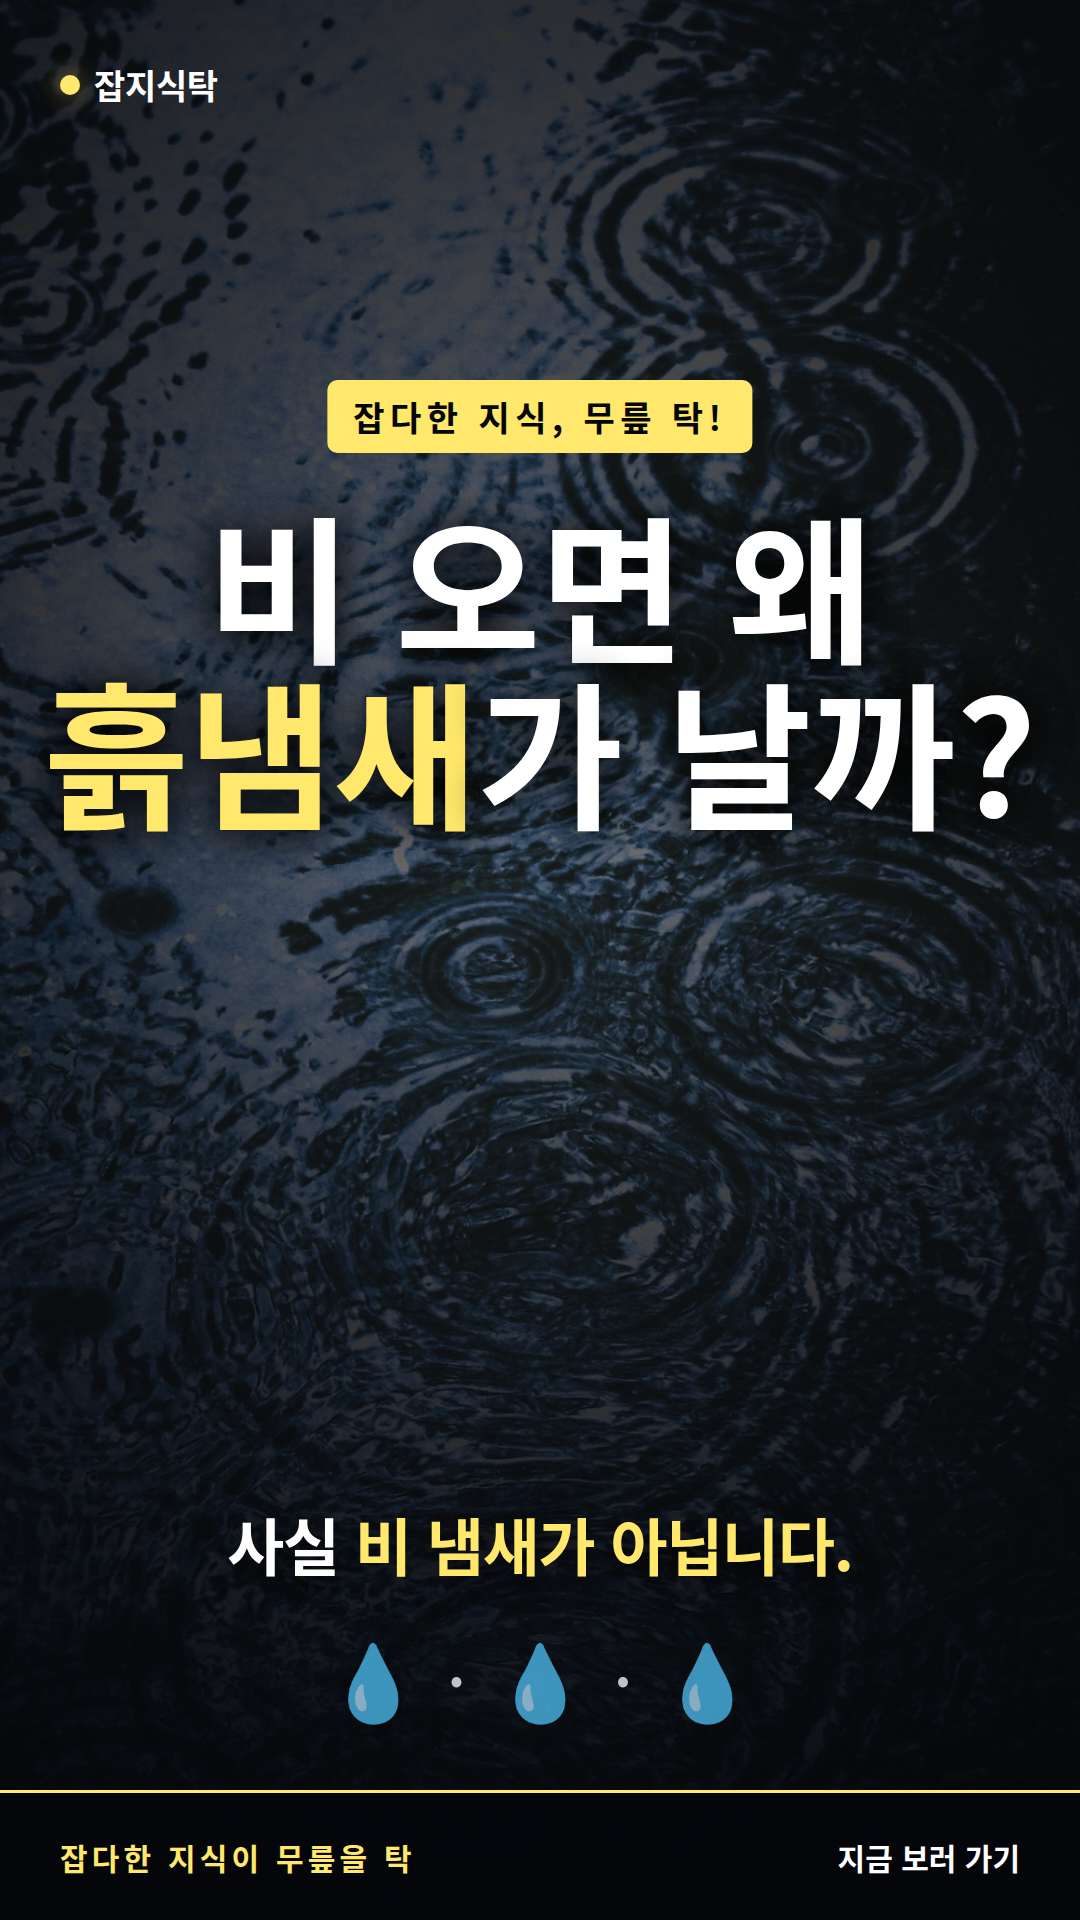
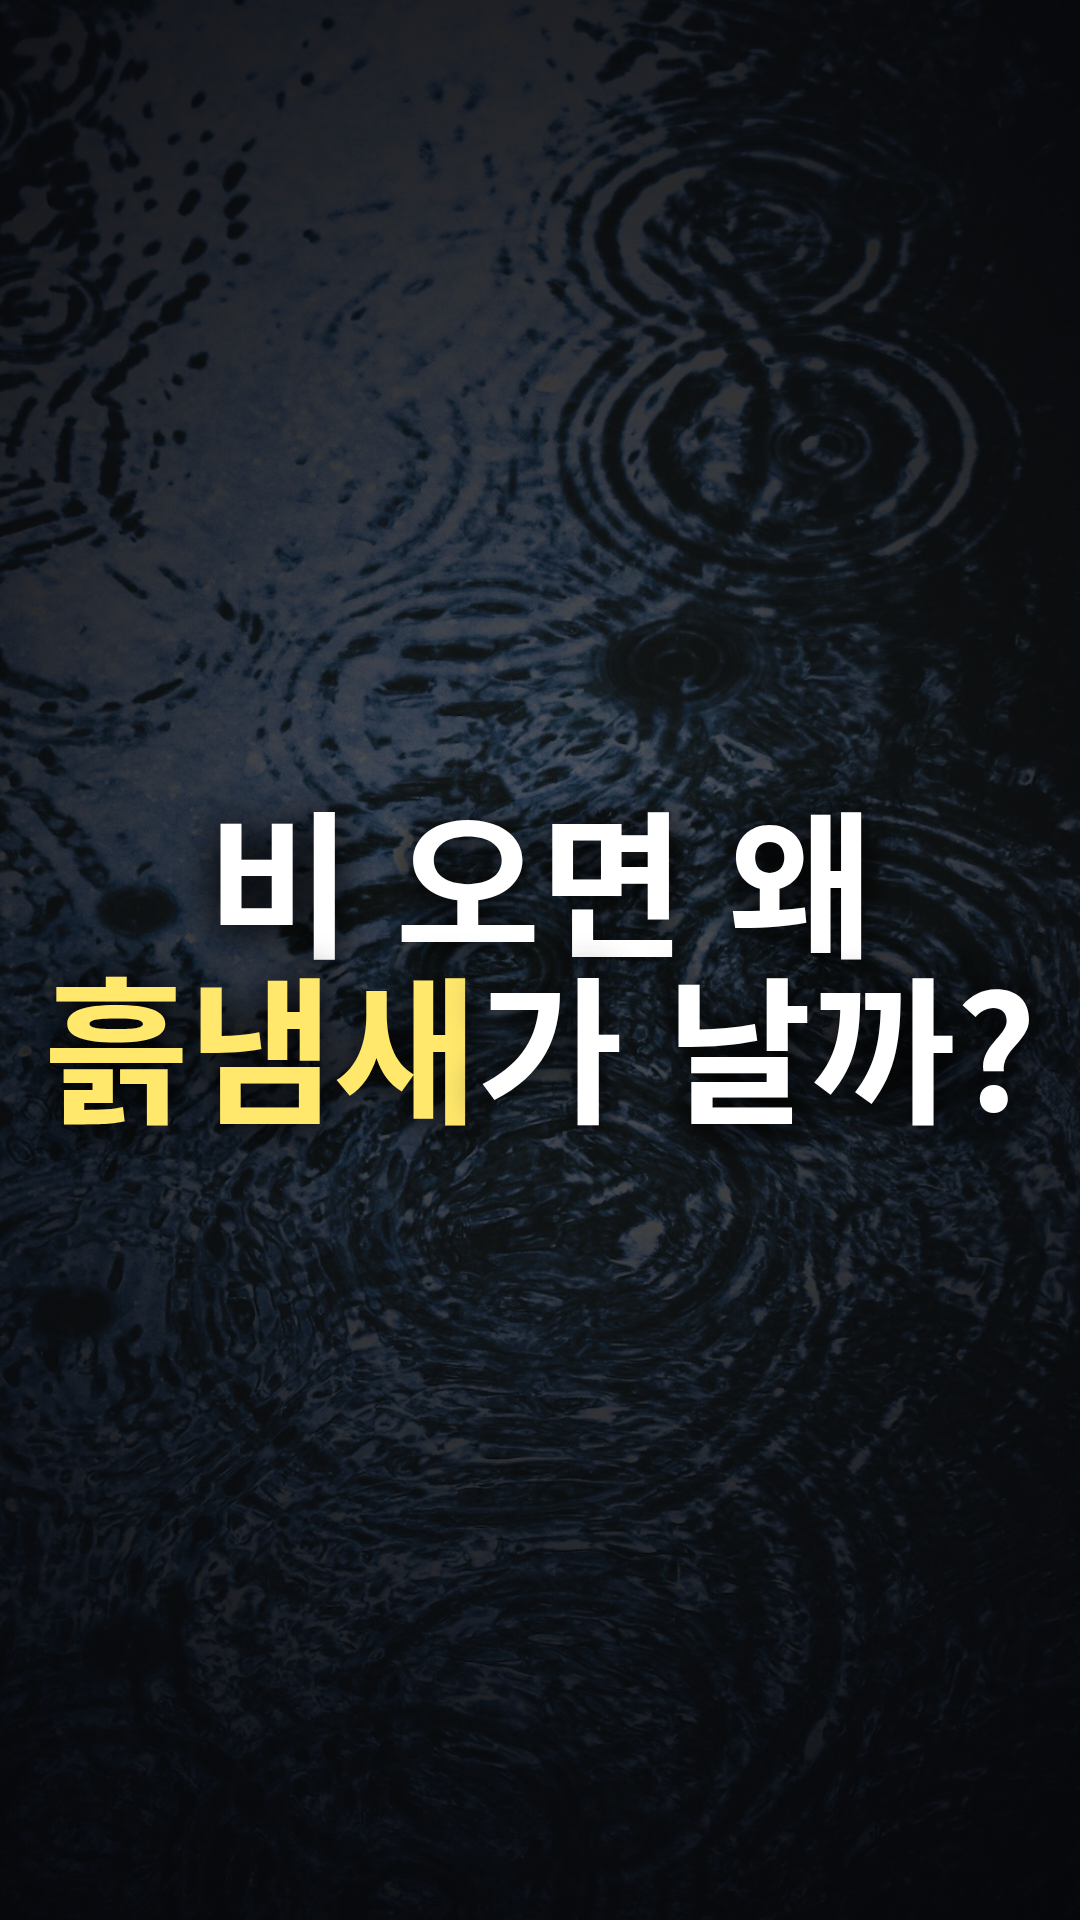
Simplify thumbnail: title only on background
Claude-Session: https://claude.ai/code/session_01EiexasVSPaSjMLVu9gc2gX

diff --git a/videos/rain-smell-shorts/thumbnail.html b/videos/rain-smell-shorts/thumbnail.html
@@ -25,47 +25,14 @@
       .veil {
         position: absolute; inset: 0;
         background:
-          radial-gradient(ellipse at 50% 40%, rgba(5,6,10,0.25) 0%, rgba(5,6,10,0.85) 100%),
-          linear-gradient(180deg, rgba(5,6,10,0.55) 0%, rgba(5,6,10,0.20) 45%, rgba(5,6,10,0.92) 100%);
+          radial-gradient(ellipse at 50% 50%, rgba(5,6,10,0.30) 0%, rgba(5,6,10,0.85) 100%),
+          linear-gradient(180deg, rgba(5,6,10,0.55) 0%, rgba(5,6,10,0.30) 45%, rgba(5,6,10,0.75) 100%);
       }
-
-      /* channel mark top-left */
-      .brand {
-        position: absolute;
-        top: 60px; left: 60px;
-        display: flex; align-items: center; gap: 14px;
-      }
-      .brand .dot {
-        width: 20px; height: 20px; border-radius: 50%;
-        background: #ffe86b;
-        box-shadow: 0 0 24px rgba(255,232,107,0.55);
-      }
-      .brand .chan {
-        font-size: 34px; font-weight: 900;
-        color: #ffffff;
-        letter-spacing: -0.01em;
-      }
-
-      /* top kicker chip */
-      .kicker {
-        position: absolute;
-        top: 380px; left: 50%;
-        transform: translateX(-50%);
-        display: inline-block;
-        font-size: 34px; font-weight: 900;
-        letter-spacing: 0.16em;
-        color: #05060a;
-        background: #ffe86b;
-        padding: 12px 26px;
-        border-radius: 10px;
-        white-space: nowrap;
-      }
-
-      /* main headline */
       .head {
         position: absolute;
         left: 40px; right: 40px;
-        top: 500px;
+        top: 50%;
+        transform: translateY(-50%);
         text-align: center;
         font-weight: 900;
         line-height: 1.05;
@@ -75,96 +42,18 @@
           0 0 40px rgba(0,0,0,0.85),
           0 8px 40px rgba(0,0,0,0.7);
       }
-      .head .l1 { display: block; font-size: 158px; }
-      .head .l2 { display: block; font-size: 158px; }
+      .head .l1 { display: block; font-size: 158px; white-space: nowrap; }
+      .head .l2 { display: block; font-size: 158px; white-space: nowrap; }
       .head .accent { color: #ffe86b; }
-
-      /* stat / hook line */
-      .hook {
-        position: absolute;
-        left: 60px; right: 60px;
-        bottom: 340px;
-        text-align: center;
-        font-size: 62px; font-weight: 800;
-        color: #ffffff;
-        letter-spacing: -0.02em;
-        line-height: 1.15;
-        text-shadow: 0 6px 30px rgba(0,0,0,0.85);
-      }
-      .hook .hl { color: #ffe86b; }
-
-      /* rain-drops accent */
-      .drops {
-        position: absolute;
-        bottom: 190px; left: 0; right: 0;
-        text-align: center;
-        font-size: 74px;
-        opacity: 0.75;
-      }
-
-      /* bottom footer bar */
-      .footer {
-        position: absolute;
-        left: 0; right: 0; bottom: 0;
-        height: 130px;
-        background: rgba(5,6,10,0.85);
-        display: flex; align-items: center; justify-content: space-between;
-        padding: 0 60px;
-        border-top: 3px solid #ffe86b;
-      }
-      .footer .tag {
-        font-size: 30px; font-weight: 800;
-        color: #ffe86b;
-        letter-spacing: 0.14em;
-      }
-      .footer .cta {
-        font-size: 30px; font-weight: 800;
-        color: #ffffff;
-      }
-
-      /* corner decoration */
-      .corner-tl, .corner-br {
-        position: absolute;
-        width: 90px; height: 90px;
-        border: 6px solid #ffe86b;
-      }
-      .corner-tl {
-        top: 40px; right: 40px;
-        border-right: none; border-bottom: none;
-      }
-      .corner-br {
-        bottom: 180px; left: 40px;
-        border-left: none; border-top: none;
-        opacity: 0;
-      }
     </style>
   </head>
   <body>
     <div class="stage">
       <div class="bg"></div>
       <div class="veil"></div>
-
-      <div class="brand">
-        <span class="dot"></span>
-        <span class="chan">잡지식탁</span>
-      </div>
-
-      <div class="kicker">잡다한 지식, 무릎 탁!</div>
-
       <div class="head">
         <span class="l1">비 오면 왜</span>
         <span class="l2"><span class="accent">흙냄새</span>가 날까?</span>
-      </div>
-
-      <div class="hook">
-        사실 <span class="hl">비 냄새가 아닙니다.</span>
-      </div>
-
-      <div class="drops">💧 · 💧 · 💧</div>
-
-      <div class="footer">
-        <span class="tag">잡다한 지식이 무릎을 탁</span>
-        <span class="cta">지금 보러 가기</span>
       </div>
     </div>
   </body>
